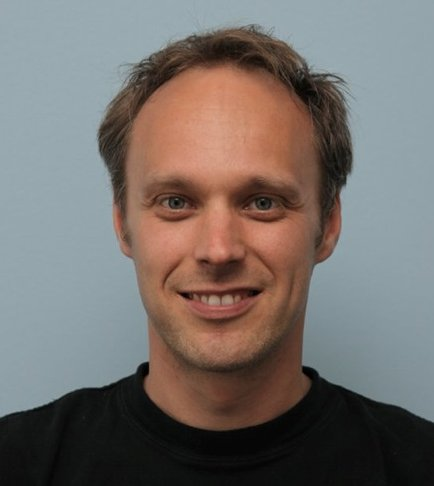
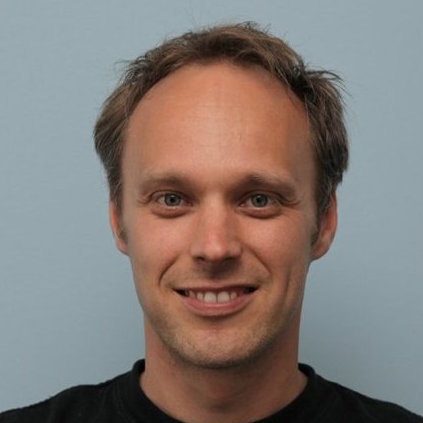
close #385 update pics

diff --git a/_speakers/libo.md b/_speakers/libo.md
@@ -3,7 +3,7 @@ name: Libo Francesco Cannici
 bio:  >
   Libo is an engineering manager at Zendesk. Three years ago, he was part of the first team to ship Zendesk Help Center, a customisable self-service portal, knowledge base, and online community - all in one. Since then he has been happily delivering innovation, maybe incrementally, maybe every day, maybe many times a day. Libo has an MSc in Industrial Design from Politecnico di Milano and has loved finding simple solutions to complex problems ever since.
 position: Engineering Manager, Zendesk
-img: /images/speakers/libo.png
+img: /images/speakers/libof.png
 social: >
   Twitter: [@libocannici](https://twitter.com/libocannici)
 ---
